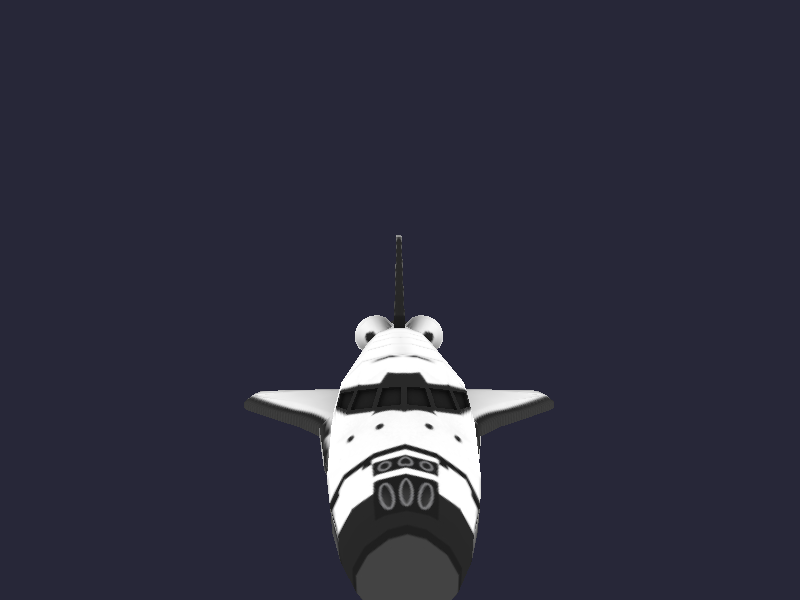
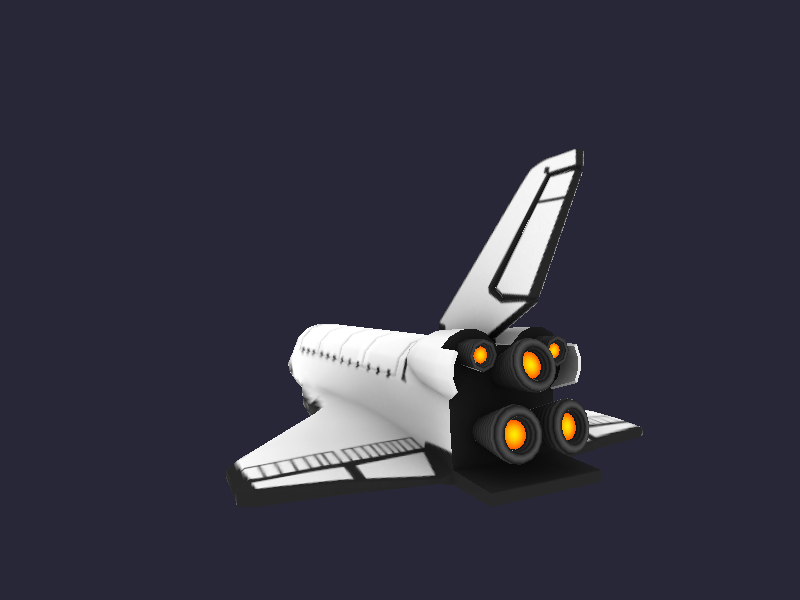
Address PR feedback for Lesson 08
- Fix capture path: restructure submit/cancel logic so
  SDL_CancelGPUCommandBuffer is unreachable after capture submits
  the command buffer internally; deduplicate the submit code path
- Fix test double-counting: remove manual pass_count++ in the skip
  branch of test_space_shuttle_model (END_TEST handles it)
- Check SDL_WriteIO/SDL_CloseIO return values in test helper
- Improve screenshot angle with initial model rotation

Changed region(s): [[0.2812, 0.24, 0.8125, 1.0]]

diff --git a/lessons/gpu/08-mesh-loading/main.c b/lessons/gpu/08-mesh-loading/main.c
@@ -129,6 +129,10 @@
 /* Model rotation speed (radians per second around Y axis). */
 #define MODEL_ROTATION_SPEED 0.3f
 
+/* Initial rotation so the shuttle presents its front face to the starting
+ * camera behind it.  Without this the first view is straight-on engines. */
+#define MODEL_INITIAL_ROTATION (FORGE_PI * 1.15f)
+
 /* ── Uniform data ─────────────────────────────────────────────────────────── */
 
 typedef struct Uniforms {
@@ -932,9 +936,10 @@ SDL_AppResult SDL_AppIterate(void *appstate)
 
     mat4 vp = mat4_multiply(proj, view);
 
-    /* Model transform: gentle Y rotation so the shuttle slowly spins,
-     * giving the learner a good view from any angle. */
-    mat4 model = mat4_rotate_y(state->elapsed * MODEL_ROTATION_SPEED);
+    /* Model transform: start at an initial rotation so the shuttle presents
+     * a 3/4 front view, then spin slowly so the learner sees every angle. */
+    mat4 model = mat4_rotate_y(MODEL_INITIAL_ROTATION
+                               + state->elapsed * MODEL_ROTATION_SPEED);
 
     mat4 mvp = mat4_multiply(vp, model);
 
@@ -1024,25 +1029,20 @@ SDL_AppResult SDL_AppIterate(void *appstate)
 
 #ifdef FORGE_CAPTURE
     if (state->capture.mode != FORGE_CAPTURE_NONE) {
-        if (!forge_capture_finish_frame(&state->capture, cmd, swapchain)) {
-            if (!SDL_SubmitGPUCommandBuffer(cmd)) {
-                SDL_Log("SDL_SubmitGPUCommandBuffer failed: %s",
-                        SDL_GetError());
-                SDL_CancelGPUCommandBuffer(cmd);
-                return SDL_APP_FAILURE;
+        if (forge_capture_finish_frame(&state->capture, cmd, swapchain)) {
+            /* Capture submitted the command buffer internally. */
+            if (forge_capture_should_quit(&state->capture)) {
+                return SDL_APP_SUCCESS;
             }
+            return SDL_APP_CONTINUE;
         }
-        if (forge_capture_should_quit(&state->capture)) {
-            return SDL_APP_SUCCESS;
-        }
-    } else
+        /* No capture this frame — fall through to normal submit below. */
+    }
 #endif
-    {
-        if (!SDL_SubmitGPUCommandBuffer(cmd)) {
-            SDL_Log("SDL_SubmitGPUCommandBuffer failed: %s", SDL_GetError());
-            SDL_CancelGPUCommandBuffer(cmd);
-            return SDL_APP_FAILURE;
-        }
+    if (!SDL_SubmitGPUCommandBuffer(cmd)) {
+        SDL_Log("SDL_SubmitGPUCommandBuffer failed: %s", SDL_GetError());
+        SDL_CancelGPUCommandBuffer(cmd);
+        return SDL_APP_FAILURE;
     }
 
     return SDL_APP_CONTINUE;

diff --git a/tests/obj/test_obj.c b/tests/obj/test_obj.c
@@ -121,8 +121,19 @@ static char *write_temp_obj(const char *obj_content, const char *name)
         SDL_free(path);
         return NULL;
     }
-    SDL_WriteIO(io, obj_content, SDL_strlen(obj_content));
-    SDL_CloseIO(io);
+    size_t content_len = SDL_strlen(obj_content);
+    size_t written = SDL_WriteIO(io, obj_content, content_len);
+    if (written < content_len) {
+        SDL_Log("SDL_WriteIO failed for '%s': %s", path, SDL_GetError());
+        SDL_CloseIO(io);
+        SDL_free(path);
+        return NULL;
+    }
+    if (!SDL_CloseIO(io)) {
+        SDL_Log("SDL_CloseIO failed for '%s': %s", path, SDL_GetError());
+        SDL_free(path);
+        return NULL;
+    }
     return path;
 }
 
@@ -635,9 +646,9 @@ static void test_space_shuttle_model(void)
     bool ok = forge_obj_load(path, &mesh);
 
     if (!ok) {
-        /* Model not found — not a failure, just skip */
+        /* Model not found — not a failure, just skip.
+         * END_TEST() below handles the pass_count increment. */
         SDL_Log("    SKIP (model not found at %s)", path);
-        pass_count++;
     } else {
         /* 1032 quads + 172 triangles = 2236 triangles = 6708 vertices */
         ASSERT_UINT_EQ(mesh.vertex_count, 6708);
